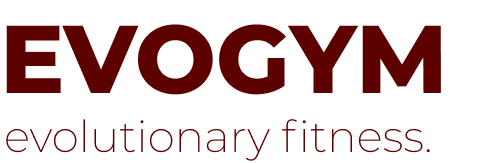
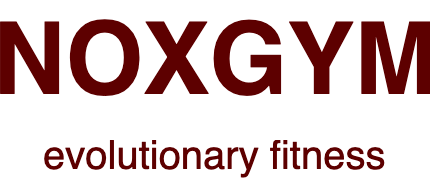
refactor: Update assets and metadata

diff --git a/tailwind.config.js b/tailwind.config.js
@@ -1,9 +1,6 @@
 /** @type {import('tailwindcss').Config} */
 export default {
-  content: [
-    "./index.html",
-    "./src/**/*.{js,ts,jsx,tsx}",
-  ],
+  content: ["./index.html", "./src/**/*.{js,ts,jsx,tsx}"],
   theme: {
     extend: {
       colors: {
@@ -18,7 +15,8 @@ export default {
         "secondary-500": "#FFC132",
       },
       backgroundImage: (theme) => ({
-        "gradient-yellowred": "linear-gradient(90deg, #FF616A 0%, #FFC837 100%)",
+        "gradient-yellowred":
+          "linear-gradient(90deg, #FF616A 0%, #FFC837 100%)",
         "mobile-home": "url('./assets/HomePageGraphic.png')",
       }),
       fontFamily: {
@@ -26,7 +24,7 @@ export default {
         montserrat: ["Montserrat", "sans-serif"],
       },
       content: {
-        evolvetext: "url('./assets/EvolveText.png')",
+        noxgymtext: "url('./assets/NoxgymText.png')",
         abstractwaves: "url('./assets/AbstractWaves.png')",
         sparkles: "url('./assets/Sparkles.png')",
         circles: "url('./assets/Circles.png')",
@@ -39,4 +37,4 @@ export default {
     },
   },
   plugins: [],
-}
+};

diff --git a/index.html b/index.html
@@ -2,9 +2,9 @@
 <html lang="en">
   <head>
     <meta charset="UTF-8" />
-    <link rel="icon" type="image/svg+xml" href="/vite.svg" />
+    <link rel="icon" type="image/svg+xml" href="/logo.svg" />
     <meta name="viewport" content="width=device-width, initial-scale=1.0" />
-    <title>Vite + React + TS</title>
+    <title>NOXGYM | evolutionary fitness</title>
   </head>
   <body>
     <div id="root"></div>
